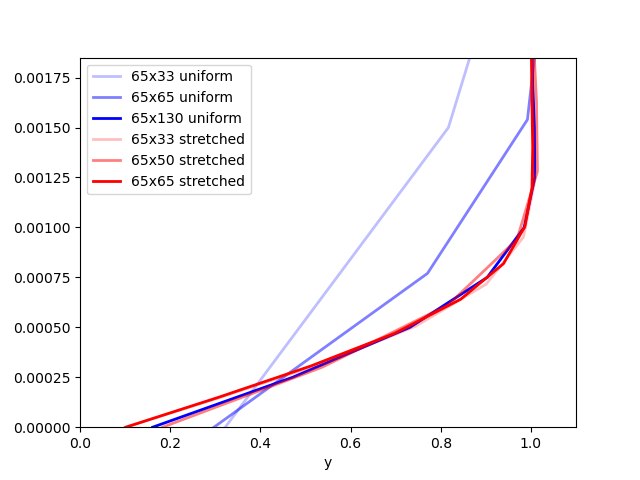
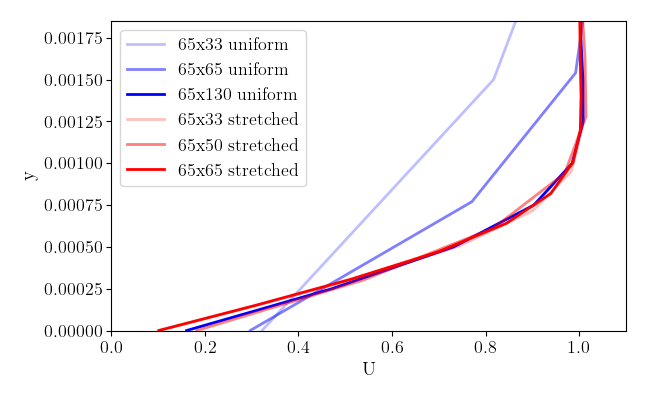
changed files

diff --git a/section2/laminarBL_example_SU2/compare_laminarBL.py b/section2/laminarBL_example_SU2/compare_laminarBL.py
@@ -1,5 +1,60 @@
 import numpy as np
 import matplotlib.pyplot as plt
+import matplotlib as mpl
+import matplotlib.pyplot as plt
+
+width = 468
+
+nice_fonts = {
+      # Use LaTex to write all text
+        "text.usetex": True,
+        "font.family": "serif",
+      # Use 10pt font in plots, to match 10pt font in document
+        "axes.labelsize": 14,
+        "font.size": 14,
+      # Make the legend/label fonts a little smaller
+        "legend.fontsize": 13,
+        "xtick.labelsize": 13,
+        "ytick.labelsize": 13,
+}
+
+def set_size(width, fraction=1):
+    """ Set aesthetic figure dimensions to avoid scaling in latex.
+
+    Parameters
+    ----------
+    width: float
+            Width in pts
+    fraction: float
+            Fraction of the width which you wish the figure to occupy
+
+    Returns
+    -------
+    fig_dim: tuple
+            Dimensions of figure in inches
+    """
+    # Width of figure
+    fig_width_pt = width * fraction
+
+    # Convert from pt to inches
+    inches_per_pt = 1 / 72.27
+
+    # Golden ratio to set aesthetic figure height
+    golden_ratio = (5**.5 - 1) / 2
+
+    # Figure width in inches
+    fig_width_in = fig_width_pt * inches_per_pt
+    # Figure height in inches
+    fig_height_in = fig_width_in * golden_ratio
+
+    fig_dim = (fig_width_in, fig_height_in)
+
+    return fig_dim
+    
+    
+
+mpl.rcParams.update(nice_fonts)
+plt.figure(figsize=set_size(width))
 
 data6533_s=np.loadtxt("65x33/stretched/result.dat", unpack=True)
 data6533_u=np.loadtxt("65x33/uniform/result.dat", unpack=True)
@@ -16,11 +71,12 @@ plt.plot(data65130_u[1],data65130_u[0],label="65x130 uniform", color="b", lw=2)
 plt.plot(data6533_s[1],data6533_s[0],label="65x33 stretched", color="r", alpha=0.25, lw=2)
 plt.plot(data6550_u[1],data6550_u[0],label="65x50 stretched", color="r", alpha=0.5, lw=2)
 plt.plot(data6565_s[1],data6565_s[0],label="65x65 stretched", color="r", alpha=1, lw=2)
-plt.xlabel(r"<U>")
-plt.xlabel(r"y")
+plt.xlabel(r"U")
+plt.ylabel(r"y")
 plt.legend()
 plt.ylim(0,0.00185)
 plt.xlim(0,1.1)
+plt.tight_layout()
 plt.savefig("ARC4CFD_compareBL.png")
 
 
@@ -34,7 +90,7 @@ data6565_u=np.loadtxt("65x65/uniform/resultT.dat", unpack=True)
 data65130_u=np.loadtxt("65x130/resultT.dat", unpack=True)
 
 
-plt.figure()
+plt.figure(figsize=set_size(width))
 plt.plot(data6533_u[1],data6533_u[0],label="65x33 uniform", color="b", alpha=0.25, lw=2)
 plt.plot(data6565_u[1],data6565_u[0],label="65x65 uniform", color="b", alpha=0.5, lw=2)
 plt.plot(data65130_u[1],data65130_u[0],label="65x130 uniform", color="b", lw=2)
@@ -43,10 +99,11 @@ plt.plot(data65130_u[1],data65130_u[0],label="65x130 uniform", color="b", lw=2)
 plt.plot(data6533_s[1],data6533_s[0],label="65x33 stretched", color="r", alpha=0.25, lw=2)
 #plt.plot(data6550_u[1],data6550_u[0],label="65x50 stretched", color="r", alpha=0.5, lw=2)
 plt.plot(data6565_s[1],data6565_s[0],label="65x65 stretched", color="r", alpha=1, lw=2)
-plt.xlabel(r"<T>")
-plt.xlabel(r"y")
+plt.xlabel(r"T")
+plt.ylabel(r"y")
 plt.legend()
 plt.ylim(0,0.00185)
 plt.xlim(0.5,1.1)
+plt.tight_layout()
 plt.savefig("ARC4CFD_compareBL_T.png")
 plt.show()
